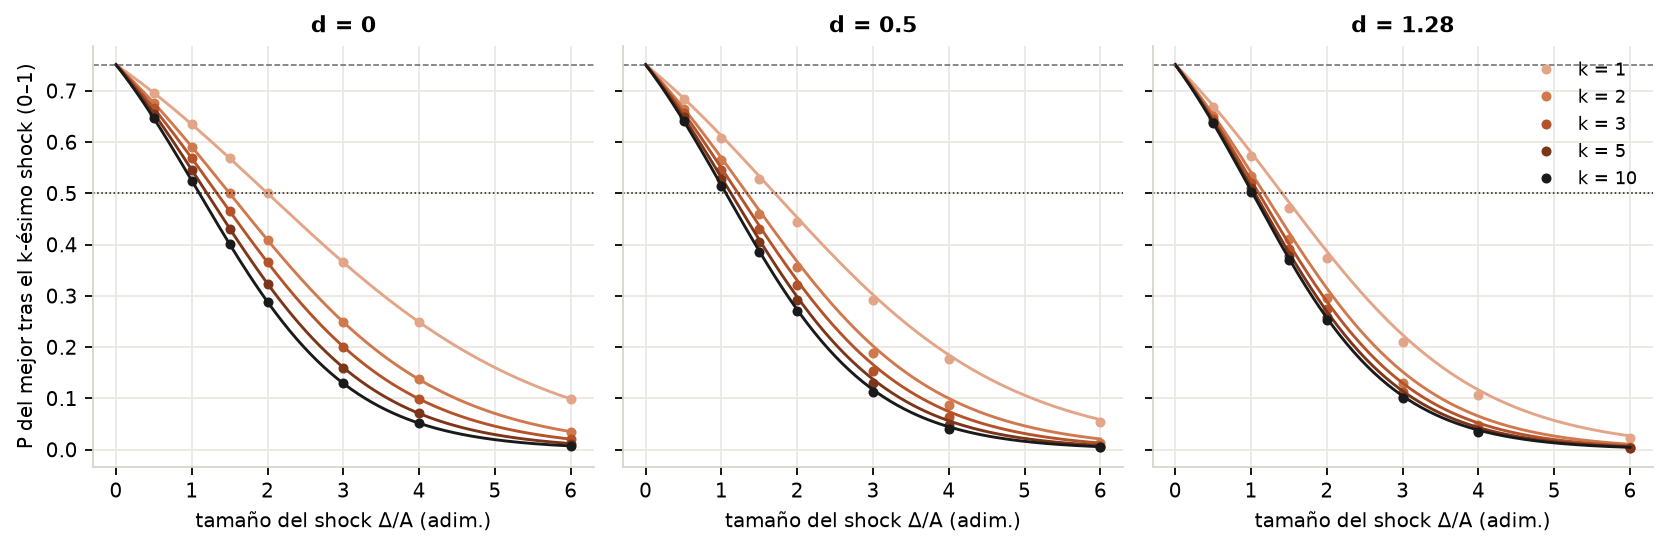
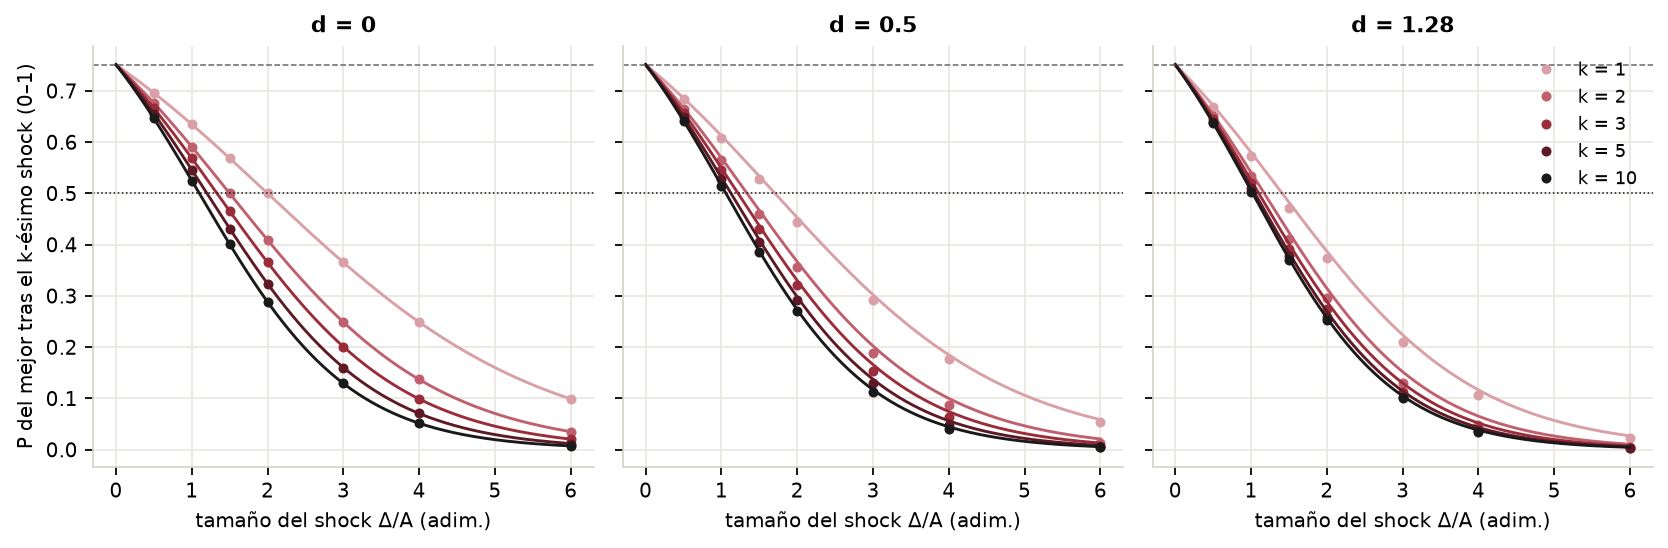
sandbox IBL: la paleta granate llega a las figuras
El cambio de paleta y los pies de figura ya estaban en el árbol sin
commitear, pero los PNG nunca se habían regenerado: el informe decía
«granate» y las figuras seguían naranjas. Se re-corre
figuras_experimentos.py y se cierra el desfase.

Cambian exactamente las nueve figuras que usan los colores tocados;
e2-decaimiento, e2-distribuciones y e3-phi quedan byte a byte iguales, que
es la verificación de que esto es la paleta y no indeterminismo de
matplotlib.

Entra también la corrección de «salvo en E3» a «salvo en E3 y E4».

diff --git a/sandbox/ibl-dia-a-dia/informe.html b/sandbox/ibl-dia-a-dia/informe.html
@@ -68,7 +68,7 @@
 <p>
   Todo se mide sobre <strong>una persona</strong>: 500 réplicas de la misma
   persona, cada una con su propia secuencia aleatoria. No hay congestión ni
-  interacción, salvo en E3, que repite la última pregunta con la ciudad completa. Las ventajas se dan en
+  interacción, salvo en E3 y E4, que repiten la última pregunta con la ciudad completa. Las ventajas se dan en
   <span class="mat" data-tex="A"><math xmlns="http://www.w3.org/1998/Math/MathML"><semantics><mrow><mi>A</mi></mrow><annotation encoding="application/x-tex">A</annotation></semantics></math></span>, la ventaja del modo mejor expresada en minutos (ecuación 6).
 </p>
 <div class="paso"><h3>¿Qué tan extrema debe ser una experiencia, o cuántas, para cambiar la conducta?</h3><p>
@@ -435,7 +435,7 @@
 </p>
 
 <h3>4.2 Corto, mediano y largo plazo</h3>
-<figure><img src="salida/e1-trayectorias.png" alt="Figura 2"><figcaption><span class="n">Figura 2</span>Trayectoria día a día después de las experiencias malas, caso C2, d = 0,5. Izquierda: una experiencia mala (k = 1); derecha: cinco (k = 5). Eje horizontal: día (1 a 250). Eje vertical: probabilidad media de elegir el modo mejor, s̄(t) (0–1), promedio de las 500 réplicas. Línea gris discontinua: sin shocks (control, constante en P*). Líneas naranjas: shocks de 1, 2, 4 y 6 veces A, más oscuras cuanto mayores. Líneas verticales: fin del corto (día 10) y del mediano plazo (día 50). Se lee como una caída y una recuperación: la profundidad depende de Δ y k; la duración, de si la persona vuelve a probar el modo. Con k = 5 y Δ = 6A la recuperación no termina en 250 días.</figcaption></figure>
+<figure><img src="salida/e1-trayectorias.png" alt="Figura 2"><figcaption><span class="n">Figura 2</span>Trayectoria día a día después de las experiencias malas, caso C2, d = 0,5. Izquierda: una experiencia mala (k = 1); derecha: cinco (k = 5). Eje horizontal: día (1 a 250). Eje vertical: probabilidad media de elegir el modo mejor, s̄(t) (0–1), promedio de las 500 réplicas. Línea gris discontinua: sin shocks (control, constante en P*). Líneas granate: shocks de 1, 2, 4 y 6 veces A, más oscuras cuanto mayores. Líneas verticales: fin del corto (día 10) y del mediano plazo (día 50). Se lee como una caída y una recuperación: la profundidad depende de Δ y k; la duración, de si la persona vuelve a probar el modo. Con k = 5 y Δ = 6A la recuperación no termina en 250 días.</figcaption></figure>
 <figure><img src="salida/e1-horizontes.png" alt="Figura 3"><figcaption><span class="n">Figura 3</span>Efecto de las experiencias malas por horizonte, caso C2, d = 0,5. Un panel por horizonte: corto (días 1–10), mediano (11–50) y largo (51–250). Eje horizontal: tamaño de cada shock, Δ/A (adim.). Eje vertical: efecto E sobre la cuota del modo mejor (pp), ecuación (11): cuota con shocks menos cuota sin shocks. Cada color es un número k de experiencias malas. Se lee comparando paneles: el mismo shock pesa mucho en el corto plazo y casi nada en el largo, salvo las combinaciones de k y Δ grandes, que se quedan.</figcaption></figure>
 <p class="titulo-tabla"><span class="n">Tabla 3</span>Efecto de las experiencias malas por horizonte (caso C2, d = 0,5)</p>
 <div class="envoltorio-tabla"><table>
@@ -464,7 +464,7 @@
 </p>
 
 <h3>4.4 Distribuciones</h3>
-<figure><img src="salida/e1-distribuciones.png" alt="Figura 4"><figcaption><span class="n">Figura 4</span>Distribución entre réplicas de la probabilidad media de elegir el modo mejor, caso C2, d = 0,5, tres experiencias malas (k = 3). Un panel por horizonte. Eje horizontal: P̄ₙ, la probabilidad media de cada réplica en ese horizonte (0–1), ecuación (10), en tramos de 0,05. Eje vertical: fracción de las 500 réplicas en cada tramo (0–1). Gris: sin shocks; naranjo: Δ = 2A; negro: Δ = 6A. Línea de puntos: ½. Se lee como un histograma: sin shock todas las réplicas están en P*; con Δ = 2A todas bajan juntas y vuelven; con Δ = 6A, en el largo plazo la distribución se abre: unas réplicas volvieron a P* y otras siguen en el modo peor.</figcaption></figure>
+<figure><img src="salida/e1-distribuciones.png" alt="Figura 4"><figcaption><span class="n">Figura 4</span>Distribución entre réplicas de la probabilidad media de elegir el modo mejor, caso C2, d = 0,5, tres experiencias malas (k = 3). Un panel por horizonte. Eje horizontal: P̄ₙ, la probabilidad media de cada réplica en ese horizonte (0–1), ecuación (10), en tramos de 0,05. Eje vertical: fracción de las 500 réplicas en cada tramo (0–1). Gris: sin shocks; granate: Δ = 2A; negro: Δ = 6A. Línea de puntos: ½. Se lee como un histograma: sin shock todas las réplicas están en P*; con Δ = 2A todas bajan juntas y vuelven; con Δ = 6A, en el largo plazo la distribución se abre: unas réplicas volvieron a P* y otras siguen en el modo peor.</figcaption></figure>
 <p>
   La media esconde que los shocks grandes <strong>polarizan</strong>: en el largo plazo no hay una
   persona «a medias», hay réplicas que se recuperaron y réplicas que no. Lo que decide de qué lado cae
@@ -503,7 +503,7 @@
 </p>
 
 <h3>5.2 Dispersión contra sesgo</h3>
-<figure><img src="salida/e2-descomposicion.png" alt="Figura 7"><figcaption><span class="n">Figura 7</span>De dónde sale el cambio en la cuota de largo plazo, caso C2, d = 0,5. Un panel por condición de ruido. Eje horizontal: desviación estándar del tiempo vivido, σ (min). Eje vertical: contribución a S − P*, la diferencia entre la cuota del modo mejor y la probabilidad sin ruido (pp), ecuación (17). Barra azul: dispersión de lo percibido, el efecto de variabilidad (siempre negativo: hacia ½). Barra naranja: sesgo de la media percibida, el hot stove (su signo depende de dónde está el ruido). Raya negra: el total. Se lee comparando el largo de las dos barras: cuando son parecidas y de signo opuesto, se compensan y la cuota casi no se mueve.</figcaption></figure>
+<figure><img src="salida/e2-descomposicion.png" alt="Figura 7"><figcaption><span class="n">Figura 7</span>De dónde sale el cambio en la cuota de largo plazo, caso C2, d = 0,5. Un panel por condición de ruido. Eje horizontal: desviación estándar del tiempo vivido, σ (min). Eje vertical: contribución a S − P*, la diferencia entre la cuota del modo mejor y la probabilidad sin ruido (pp), ecuación (17). Barra azul: dispersión de lo percibido, el efecto de variabilidad (siempre negativo: hacia ½). Barra granate: sesgo de la media percibida, el hot stove (su signo depende de dónde está el ruido). Raya negra: el total. Se lee comparando el largo de las dos barras: cuando son parecidas y de signo opuesto, se compensan y la cuota casi no se mueve.</figcaption></figure>
 <p>
   La dispersión empuja <strong>siempre</strong> hacia ½: es el efecto que pregunta la hipótesis, y está
   en las 135 corridas. El sesgo cambia de signo según dónde esté el ruido: negativo con ruido

diff --git a/sandbox/ibl-dia-a-dia/arma_informe.py b/sandbox/ibl-dia-a-dia/arma_informe.py
@@ -247,7 +247,7 @@ s1 = f"""
 <p>
   Todo se mide sobre <strong>una persona</strong>: {D["replicas"]} réplicas de la misma
   persona, cada una con su propia secuencia aleatoria. No hay congestión ni
-  interacción, salvo en E3, que repite la última pregunta con la ciudad completa. Las ventajas se dan en
+  interacción, salvo en E3 y E4, que repiten la última pregunta con la ciudad completa. Las ventajas se dan en
   {tex("A")}, la ventaja del modo mejor expresada en minutos (ecuación 6).
 </p>
 <div class="paso"><h3>¿Qué tan extrema debe ser una experiencia, o cuántas, para cambiar la conducta?</h3><p>
@@ -759,7 +759,7 @@ s4 = f"""
         "Trayectoria día a día después de las experiencias malas, caso C2, d = 0,5. Izquierda: una"
         " experiencia mala (k = 1); derecha: cinco (k = 5). Eje horizontal: día (1 a 250). Eje"
         " vertical: probabilidad media de elegir el modo mejor, s̄(t) (0–1), promedio de las 500"
-        " réplicas. Línea gris discontinua: sin shocks (control, constante en P*). Líneas naranjas:"
+        " réplicas. Línea gris discontinua: sin shocks (control, constante en P*). Líneas granate:"
         " shocks de 1, 2, 4 y 6 veces A, más oscuras cuanto mayores. Líneas verticales: fin del corto"
         " (día 10) y del mediano plazo (día 50). Se lee como una caída y una recuperación: la"
         " profundidad depende de Δ y k; la duración, de si la persona vuelve a probar el modo. Con"
@@ -849,7 +849,7 @@ s4 = f"""
         " d = 0,5, tres experiencias malas (k = 3). Un panel por horizonte. Eje horizontal: P̄ₙ, la"
         " probabilidad media de cada réplica en ese horizonte (0–1), ecuación (10), en tramos de"
         " 0,05. Eje vertical: fracción de las 500 réplicas en cada tramo (0–1). Gris: sin shocks;"
-        " naranjo: Δ = 2A; negro: Δ = 6A. Línea de puntos: ½. Se lee como un histograma: sin shock"
+        " granate: Δ = 2A; negro: Δ = 6A. Línea de puntos: ½. Se lee como un histograma: sin shock"
         " todas las réplicas están en P*; con Δ = 2A todas bajan juntas y vuelven; con Δ = 6A, en el"
         " largo plazo la distribución se abre: unas réplicas volvieron a P* y otras siguen en el"
         " modo peor.",
@@ -960,7 +960,7 @@ s5 = f"""
         " condición de ruido. Eje horizontal: desviación estándar del tiempo vivido, σ (min). Eje"
         " vertical: contribución a S − P*, la diferencia entre la cuota del modo mejor y la"
         " probabilidad sin ruido (pp), ecuación (17). Barra azul: dispersión de lo percibido, el"
-        " efecto de variabilidad (siempre negativo: hacia ½). Barra naranja: sesgo de la media"
+        " efecto de variabilidad (siempre negativo: hacia ½). Barra granate: sesgo de la media"
         " percibida, el hot stove (su signo depende de dónde está el ruido). Raya negra: el total."
         " Se lee comparando el largo de las dos barras: cuando son parecidas y de signo opuesto, se"
         " compensan y la cuota casi no se mueve.",

diff --git a/sandbox/ibl-dia-a-dia/figuras_experimentos.py b/sandbox/ibl-dia-a-dia/figuras_experimentos.py
@@ -23,9 +23,9 @@ CASOS = {c["nombre"]: c for c in D["casos"]}
 BINS = np.array(D["bins"])
 DIAS = np.arange(1, D["dias"] + 1)
 
-AUTO, METRO, TINTA, GRIS, REGLA = "#b4532a", "#2f6690", "#1a1a1a", "#6b6b6b", "#d8d4cc"
-COLOR_CASO = {"C1": METRO, "C2": "#e3a587", "C3": "#7d3519"}  # el color del modo mejor
-COLOR_K = {1: "#e3a587", 2: "#d0794f", 3: AUTO, 5: "#7d3519", 10: TINTA}
+AUTO, METRO, TINTA, GRIS, REGLA = "#9b2c3a", "#2f6690", "#1a1a1a", "#6b6b6b", "#d8d4cc"
+COLOR_CASO = {"C1": METRO, "C2": "#d9a0a8", "C3": "#5e1a24"}  # el color del modo mejor
+COLOR_K = {1: "#d9a0a8", 2: "#c0606e", 3: AUTO, 5: "#5e1a24", 10: TINTA}
 HORIZONTES = {
     "corto": "Corto plazo (días 1–10)",
     "medio": "Mediano (11–50)",
@@ -159,7 +159,7 @@ def fig_e1_distribuciones(caso="C2", d=0.5, k=3):
     fig, axs = plt.subplots(1, 3, figsize=(10.5, 3.2), sharey=True)
     series = (
         ("sin shock", e1(caso, d), GRIS),
-        (f"k = {k}, Δ = 2·A", e1(caso, d, k, 2.0), "#d0794f"),
+        (f"k = {k}, Δ = 2·A", e1(caso, d, k, 2.0), "#c0606e"),
         (f"k = {k}, Δ = 6·A", e1(caso, d, k, 6.0), TINTA),
     )
     for ax, (w, titulo) in zip(axs, HORIZONTES.items(), strict=True):
